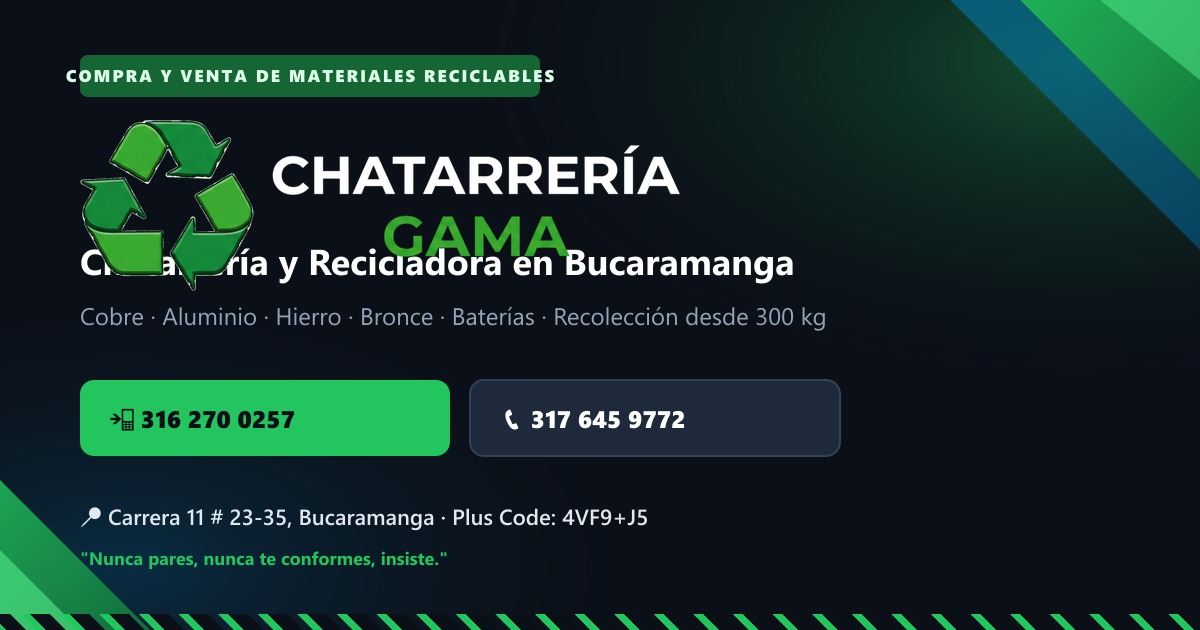
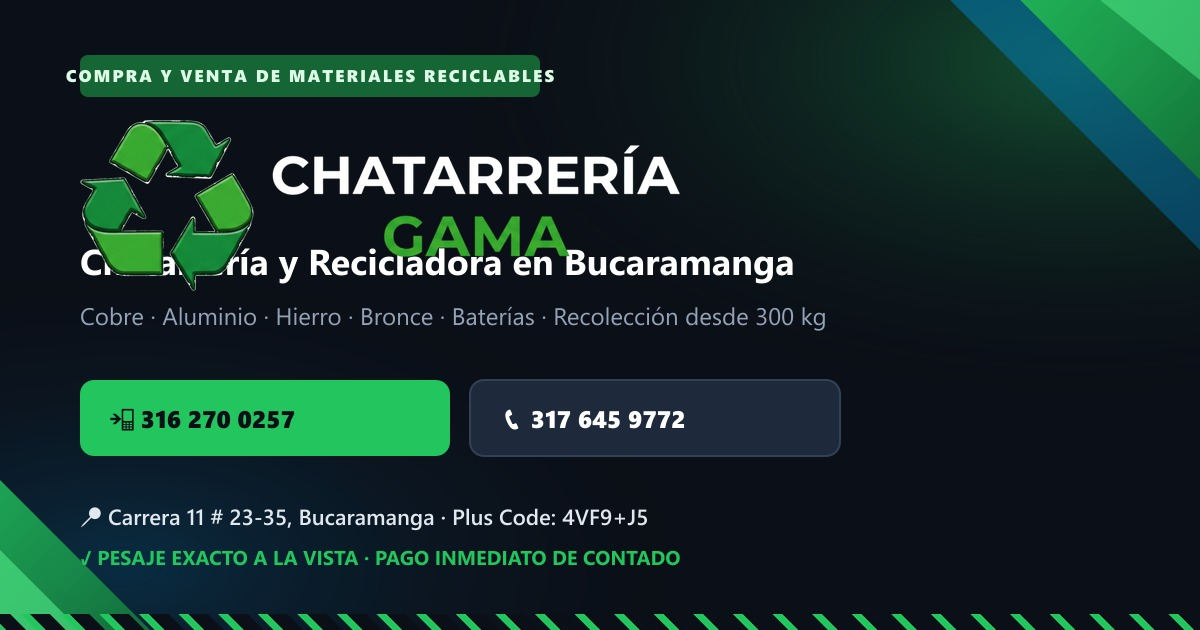
feat: optimizar textos comerciales, confianza (bascula/pago) y segmentacion de clientes

Changed region(s): [[0.0617, 0.8746, 0.5858, 0.9048]]

diff --git a/src/data/materials.ts b/src/data/materials.ts
@@ -1,16 +1,16 @@
 export interface Material {
   slug: string;
-  name: string; // nombre corto (tarjetas, schema)
+  name: string;
   h1: string;
-  symbol: string; // ficha estilo tabla periódica
+  symbol: string;
   number: string;
-  priority: 1 | 2 | 3; // 1 = destacado en portada
-  short: string; // texto de tarjeta
+  priority: 1 | 2 | 3;
+  short: string;
   metaTitle: string;
   metaDescription: string;
-  items: string[]; // variantes que se compran
+  items: string[];
   intro: string;
-  tips: string[]; // cómo cotizan mejor
+  tips: string[];
   faqs?: { q: string; a: string }[];
 }
 
@@ -22,15 +22,15 @@ export const MATERIALS: Material[] = [
     symbol: 'Cu',
     number: '29',
     priority: 1,
-    short: 'Cobre brillante, 1B y mixto. El metal que mejor se paga: llévalo limpio y separado.',
+    short: 'Tubería, cable pelado brillante, cable encauchetado y cobre mixto. Pesaje exacto y pago de contado.',
     metaTitle: 'Compra de Cobre en Bucaramanga | Gama Metales',
     metaDescription: 'Compra de cobre en Bucaramanga: cobre brillante, 1B y mixto. Cotiza por WhatsApp con tu peso y fotos y vende hoy en Gama Metales.',
-    items: ['Cobre brillante', 'Cobre 1B (primera)', 'Cobre mixto', 'Cable y alambre de cobre (consulta por WhatsApp)'],
-    intro: 'En Gama Metales compramos cobre en todas sus calidades. El precio depende del tipo y de la limpieza del material, y cambia cada día, por eso lo cotizamos por WhatsApp con el peso aproximado y una foto.',
+    items: ['Cobre brillante (cable pelado)', 'Cobre 1B (tubería limpia)', 'Cobre mixto', 'Cable encauchetado y alambre de bobinado'],
+    intro: 'Compramos cobre en todas sus presentaciones: tubería de fontanería, cable pelado brillante, cable con recubrimiento y cobre mixto. Pesamos frente a ti y liquidamos al instante de contado según el precio del día.',
     tips: [
-      'Separa el cobre brillante del mixto: mezclados se cotizan al precio más bajo.',
-      'Quita plásticos, soldaduras y partes de otros metales cuando sea posible.',
-      'Envía una foto clara y el peso aproximado para una cotización rápida.',
+      'Separa el cobre brillante del mixto o encauchetado: mezclados se pagan a la tarifa más baja.',
+      'Retira llaves, soldaduras y uniones de otros metales para que te rinda como cobre de primera.',
+      'Escríbenos por WhatsApp con una foto y el peso estimado para darte el valor exacto del kilo hoy.',
     ],
     faqs: [
       { q: '¿A cómo está el kilo de cobre hoy en Bucaramanga?', a: 'El precio cambia todos los días según el mercado y la calidad del cobre. Escríbenos por WhatsApp con el tipo y el peso y te damos el precio del día.' },
@@ -44,15 +44,15 @@ export const MATERIALS: Material[] = [
     symbol: 'Al',
     number: '13',
     priority: 1,
-    short: 'Perfil, ollas, potes, guaya, rines y más. Limpio paga mucho más que contaminado.',
+    short: 'Perfil de ventana, ollas, rines, culatas y guayas. Limpio paga mucho más que contaminado.',
     metaTitle: 'Compra de Aluminio en Bucaramanga | Gama Metales',
     metaDescription: 'Compra de aluminio en Bucaramanga: perfil, ollas, potes, guaya y rines. Mientras más limpio, mejor se cotiza. Pide el precio del día por WhatsApp.',
-    items: ['Aluminio perfil limpio', 'Aluminio grueso y blando', 'Ollas y potes de aluminio', 'Guaya de aluminio', 'Planchas de litografía', 'Rines de auto, camión y bicicleta', 'Cilindros de moto', 'Persiana y aluminio contaminado'],
-    intro: 'El aluminio es uno de los materiales que más se mueve en nuestra bodega. Compramos desde perfil limpio hasta aluminio revuelto o contaminado; el precio por kilo varía según el tipo y la limpieza.',
+    items: ['Perfil de ventanería limpio', 'Aluminio grueso y fundición', 'Ollas y utensilios de aluminio', 'Rines de auto, camión y moto', 'Guaya de aluminio', 'Planchas de litografía', 'Persiana y aluminio con tornillos'],
+    intro: 'Compramos todo tipo de aluminio: desde perfiles limpios de ventanas hasta rines, ollas y piezas de motor. Pagamos de contado según la calidad y el estado del material.',
     tips: [
-      'El perfil limpio (sin tornillos, caucho ni vidrio) se paga muy por encima del contaminado.',
-      'Separa ollas y potes del aluminio grueso.',
-      'Si son rines, indica si son de auto, camión o bicicleta.',
+      'El perfil de ventanería sin tornillos, caucho ni vidrio tiene un precio mucho más alto.',
+      'Separa las ollas y chatarra delgada del aluminio grueso o fundición.',
+      'Si tienes rines o culatas de motor, indícanos si vienen con rodamientos o partes de hierro.',
     ],
     faqs: [
       { q: '¿Compran aluminio revuelto o contaminado?', a: 'Sí, compramos todo tipo de aluminio. El aluminio limpio y separado se cotiza mejor que el revuelto o contaminado.' },
@@ -65,14 +65,14 @@ export const MATERIALS: Material[] = [
     symbol: 'Fe',
     number: '26',
     priority: 1,
-    short: 'Hierro, acero y chatarra ferrosa en grandes volúmenes, con recolección desde 300 kg.',
+    short: 'Varilla, vigas, rejas, lámina, chatarra ferrosa y maquinaria pesada. Recolección desde 300 kg.',
     metaTitle: 'Compra de Chatarra de Hierro y Acero en Bucaramanga',
     metaDescription: 'Compra de chatarra de hierro y acero en Bucaramanga. Recibimos grandes volúmenes y recogemos desde 300 kg. Cotiza por WhatsApp hoy mismo.',
-    items: ['Hierro gris (fundición)', 'Chatarra de hierro', 'Acero', 'Acero papelillo', 'Acero voluminoso', 'Viruta de acero'],
-    intro: 'La chatarra ferrosa es el material de mayor volumen. Si acumulas hierro o acero en tu casa, taller, obra o empresa, lo recibimos en bodega o lo recogemos desde 300 kg.',
+    items: ['Varilla de construcción y malla', 'Vigas, perfiles y rejas', 'Hierro gris de fundición', 'Láminas y retales de taller', 'Acero inoxidable', 'Viruta de torno y maquinaria en desuso'],
+    intro: 'Recibimos chatarra ferrosa en cualquier cantidad: varilla de obra, rejas, vigas, tubería, maquinaria pesada y lámina. Si tienes más de 300 kg, coordinamos camión y recolección directamente en tu sitio.',
     tips: [
-      'Para volúmenes grandes, pide recolección: ahorras flete y tiempo.',
-      'Indica si es hierro gris, acero o material voluminoso: se cotizan distinto.',
+      'Para cantidades grandes en obras o talleres, solicita recolección a domicilio: te ahorras el flete y la logística.',
+      'Separa el acero inoxidable del hierro común: el acero inoxidable se cotiza a un valor muy superior.',
     ],
     faqs: [
       { q: '¿Desde cuántos kilos hacen recolección de chatarra?', a: 'Hacemos recolección desde 300 kg. Escríbenos por WhatsApp con tu ubicación y el material para coordinar.' },
@@ -85,12 +85,15 @@ export const MATERIALS: Material[] = [
     symbol: 'Cu·Sn',
     number: '29·50',
     priority: 2,
-    short: 'Bronce, bronce pintado, radiadores de cobre, mixtos y de aluminio.',
+    short: 'Grifería, llaves, válvulas, piezas de torno y radiadores de cobre, mixtos o aluminio.',
     metaTitle: 'Compra de Bronce y Radiadores en Bucaramanga',
     metaDescription: 'Compramos bronce y radiadores de cobre, mixtos y de aluminio en Bucaramanga. Envía fotos y peso por WhatsApp y recibe tu cotización del día.',
-    items: ['Bronce', 'Bronce pintado', 'Bronce vainilla', 'Viruta de bronce', 'Radiador de cobre', 'Radiador mixto', 'Radiador de aluminio'],
-    intro: 'Compramos bronce en sus variantes y radiadores de distintos materiales. Cada tipo tiene un precio diferente, así que una foto del material acelera la cotización.',
-    tips: ['Indica si el radiador es de cobre, mixto o aluminio.', 'No mezcles bronce con otros metales.'],
+    items: ['Bronce de piezas mecánicas', 'Grifería, llaves y válvulas', 'Bronce vainilla', 'Viruta de bronce', 'Radiadores de cobre', 'Radiadores mixtos y de aluminio'],
+    intro: 'Compramos bronce de piezas mecánicas, grifería, válvulas y viruta, además de radiadores de cobre, mixtos y de aluminio. Pesaje exacto a la vista y liquidación inmediata.',
+    tips: [
+      'Retira mangueras plásticas y abrazaderas de hierro de los radiadores para recibir la mejor cotización.',
+      'No mezcles bronce con cobre: el cobre tiene un precio más alto y te conviene venderlo por separado.',
+    ],
   },
   {
     slug: 'baterias',
@@ -99,12 +102,15 @@ export const MATERIALS: Material[] = [
     symbol: 'Pb',
     number: '82',
     priority: 2,
-    short: 'Baterías de carro, camión, moto y estacionarias. Cotiza por tipo y cantidad.',
+    short: 'Baterías de auto, camión, moto y plantas eléctricas. Te pagamos según tamaño y referencia.',
     metaTitle: 'Compra de Baterías Usadas en Bucaramanga | Gama Metales',
     metaDescription: 'Compra de baterías usadas en Bucaramanga: de carro, camión, moto y estacionarias. Cotiza por WhatsApp según el tipo de batería y la cantidad.',
-    items: ['Baterías de carro (N40, N42, N48, N27)', 'Baterías 30H, 4D y 8D (camión y maquinaria)', 'Baterías de moto', 'Baterías estacionarias'],
-    intro: 'Compramos baterías usadas de todos los tamaños. El valor depende del tipo (referencia) y de la cantidad, por eso pedimos que nos escribas la referencia que aparece en la batería.',
-    tips: ['Envía la referencia (por ejemplo N40, 4D, 8D) y cuántas tienes.', 'Transpórtalas en posición vertical y sin abrirlas.'],
+    items: ['Baterías de auto (N40, N42, N48, N27)', 'Baterías pesadas de camión (30H, 4D, 8D)', 'Baterías de moto', 'Baterías estacionarias y de plantas eléctricas'],
+    intro: 'Compramos baterías de plomo-ácido fuera de uso: de autos, camiones (4D, 8D), motos, maquinaria pesada y bancos de baterías estacionarias. Te las pagamos de contado según tamaño y referencia.',
+    tips: [
+      'Escríbenos la referencia que aparece en la etiqueta (por ejemplo 4D, 8D, N40) para darte el precio de inmediato.',
+      'Mantén las baterías en posición vertical y sin derramar el líquido para transportarlas con seguridad.',
+    ],
   },
   {
     slug: 'plomo-y-antimonio',
@@ -113,12 +119,14 @@ export const MATERIALS: Material[] = [
     symbol: 'Pb',
     number: '82',
     priority: 3,
-    short: 'Plomo limpio, balancín y antimonio.',
+    short: 'Plomo limpio, tubería antigua de plomo, balancines de llanta y antimonio.',
     metaTitle: 'Compra de Plomo y Antimonio en Bucaramanga',
     metaDescription: 'Compra de plomo y antimonio en Bucaramanga: plomo limpio y balancín. Envía el peso aproximado por WhatsApp y te damos la cotización del día.',
-    items: ['Plomo limpio', 'Balancín', 'Antimonio'],
-    intro: 'Compramos plomo y antimonio. Cotizamos según el tipo y el peso, con el precio del día.',
-    tips: ['Indica si es plomo limpio o balancín.'],
+    items: ['Plomo limpio', 'Tubería antigua de plomo', 'Balancines y pesas de llanta', 'Antimonio'],
+    intro: 'Compramos plomo limpio, tubería antigua de plomo, balancines de llantas y antimonio. Cotizamos según el peso con la tasa actualizada del mercado.',
+    tips: [
+      'Indícanos si es plomo limpio en lingotes/bloques o si son balancines con grapas de hierro.',
+    ],
   },
   {
     slug: 'electrodomesticos',
@@ -127,12 +135,14 @@ export const MATERIALS: Material[] = [
     symbol: 'Cu·Al·Fe',
     number: '',
     priority: 2,
-    short: 'Electrodomésticos y equipos electrónicos en desuso. Consulta por recolección.',
+    short: 'Neveras, lavadoras, congeladores y calentadores viejos. Despeja espacio y recibe dinero hoy.',
     metaTitle: 'Compra de Neveras, Lavadoras y TV Usados en Bucaramanga',
     metaDescription: 'Compramos neveras, lavadoras y televisores usados en Bucaramanga. Cotiza por WhatsApp con una foto y consulta por recolección desde 300 kg.',
-    items: ['Neveras', 'Lavadoras', 'Televisores', 'Otros electrodomésticos y chatarra electrónica (consulta)'],
-    intro: 'Si tienes electrodomésticos en desuso, te los compramos. Escríbenos con una foto y la cantidad; si son varios, coordinamos la recolección.',
-    tips: ['Envía foto y cantidad.', 'Si completas 300 kg o más, podemos recogerlos.'],
+    items: ['Neveras y congeladores', 'Lavadoras y secadoras', 'Calentadores de agua y motores', 'Televisores y chatarra electrónica'],
+    intro: 'Compramos neveras, lavadoras, congeladores, calentadores y televisores en desuso. Si vas a remodelar o despejar tu espacio, te compramos tus aparatos viejos por kilo o unidad.',
+    tips: [
+      'Envíanos una foto por WhatsApp del electrodoméstico para cotizarte de inmediato.',
+      'Si completas 300 kg o tienes varios aparatos en tu casa o finca, podemos pasar a recogerlos.',
+    ],
   },
 ];
-

diff --git a/src/data/faqs.ts b/src/data/faqs.ts
@@ -5,28 +5,27 @@ export interface Faq {
 
 export const HOME_FAQS: Faq[] = [
   {
-    q: '¿Cuánto pagan por kilo de chatarra hoy?',
-    a: 'Los precios cambian a diario según el mercado y la calidad del material. Escríbenos por WhatsApp con el tipo de metal, el peso aproximado y una foto, y te damos el precio del día.',
+    q: '¿Cómo garantizan el peso exacto de mi chatarra?',
+    a: 'Contamos con báscula a la vista en nuestra bodega de la Carrera 11 # 23-35. Todo el material se pesa frente a ti de forma transparente para que tengas total seguridad en los kilos que nos entregas.',
   },
   {
-    q: '¿Qué metales compran en Bucaramanga?',
-    a: 'Compramos todo tipo de metales: cobre, bronce, aluminio, hierro, acero, plomo, antimonio, radiadores, rines, baterías y electrodomésticos como neveras, lavadoras y televisores.',
+    q: '¿Cómo y cuándo me pagan el material?',
+    a: 'El pago es de contado e inmediato en el mismo momento del pesaje: en efectivo o por transferencia electrónica al instante (Nequi, Daviplata o Bancolombia), sin demoras ni retenciones.',
+  },
+  {
+    q: '¿A cómo pagan el kilo hoy?',
+    a: 'Los precios de los metales se actualizan diariamente según el mercado. Escríbenos por WhatsApp con el tipo de material, el peso estimado y una foto, y te damos el precio exacto de hoy en minutos.',
   },
   {
     q: '¿Hacen recolección de chatarra a domicilio?',
-    a: 'Sí, hacemos recolección desde 300 kg en Bucaramanga y municipios cercanos. Escríbenos por WhatsApp para coordinar.',
+    a: 'Sí, realizamos recolección a partir de 300 kg en Bucaramanga, Floridablanca, Girón y Piedecuesta. Coordinamos la fecha y hora que te convenga y llevamos transporte para cargarlo.',
   },
   {
-    q: '¿Cuál es el horario de la chatarrería?',
-    a: 'Atendemos de lunes a viernes de 7:00 a. m. a 5:30 p. m. y los sábados de 7:00 a. m. a 1:30 p. m.',
+    q: '¿Dónde queda la bodega y qué horario tienen?',
+    a: 'Estamos ubicados en la Carrera 11 # 23-35, Bucaramanga (Santander). Atendemos de lunes a viernes de 7:00 a. m. a 5:30 p. m. y sábados de 7:00 a. m. a 1:30 p. m.',
   },
   {
-    q: '¿Dónde queda Gama Metales?',
-    a: 'Estamos en la Carrera 11 # 23-35, Bucaramanga, Santander. Plus code: 4VF9+J5.',
-  },
-  {
-    q: '¿Compran material a empresas y talleres?',
-    a: 'Sí. Atendemos a público en general y también a empresas, talleres e industrias que quieren vender chatarra y excedentes de metal acumulados.',
+    q: '¿Compran a talleres mecánicos, plomeros, electricistas y empresas?',
+    a: 'Sí. Atendemos tanto a particulares con cantidades pequeñas como a profesionales y empresas que generan excedentes continuos de cobre, bronce, aluminio, baterías y chatarra ferrosa.',
   },
 ];
-

diff --git a/src/data/site.ts b/src/data/site.ts
@@ -1,8 +1,8 @@
 export const SITE = {
   name: 'Gama Metales',
-  slogan: 'Nunca pares, nunca te conformes, insiste.',
+  slogan: 'Pesaje justo y pago inmediato de contado en Bucaramanga.',
   description:
-    'Chatarrería y recicladora de metales en Bucaramanga con más de 20 años de experiencia. Compramos cobre, bronce, aluminio, hierro, acero, plomo, baterías y electrodomésticos.',
+    'Chatarrería Gama Metales en Bucaramanga con más de 20 años de experiencia. Pesaje exacto a la vista, pago de contado inmediato y los mejores precios en cobre, aluminio, hierro y baterías.',
   lang: 'es-CO',
   locale: 'es_CO',
   city: 'Bucaramanga',
@@ -11,13 +11,13 @@ export const SITE = {
 
   address: {
     street: 'Carrera 11 # 23-35',
-    neighborhood: '', // TODO: barrio/sector exacto
-    postalCode: '', // TODO: opcional
+    neighborhood: '', // TODO: barrio/sector exacto si aplica
+    postalCode: '',
     plusCode: '4VF9+J5 Bucaramanga',
   },
   geo: { lat: 7.1241, lng: -73.132 },
-  mapsUrl: `https://www.google.com/maps/search/?api=1&query=${encodeURIComponent('4VF9+J5 Bucaramanga')}`,
-  gbpUrl: '', // TODO: enlace al perfil de Google Business cuando lo recuperes
+  mapsUrl: `https://www.google.com/maps/search/?api=1&query=${encodeURIComponent('Carrera 11 # 23-35 Bucaramanga')}`,
+  gbpUrl: '',
 
   phones: [
     { label: 'WhatsApp principal', display: '316 270 0257', e164: '+573162700257', wa: '573162700257' },
@@ -28,14 +28,14 @@ export const SITE = {
     { label: 'Lunes a viernes', display: '7:00 a. m. a 5:30 p. m.', days: ['Monday', 'Tuesday', 'Wednesday', 'Thursday', 'Friday'], opens: '07:00', closes: '17:30' },
     { label: 'Sábados', display: '7:00 a. m. a 1:30 p. m.', days: ['Saturday'], opens: '07:00', closes: '13:30' },
   ],
-  closedNote: 'Domingos y festivos cerrado.', // TODO: confirmar
+  closedNote: 'Domingos y festivos cerrado.',
 
   pickup: {
     minKg: 300,
-    zones: ['Bucaramanga', 'Floridablanca', 'Girón', 'Piedecuesta'], // TODO: confirmar cobertura
+    zones: ['Bucaramanga', 'Floridablanca', 'Girón', 'Piedecuesta'],
   },
 
-  sameAs: [] as string[], // TODO: Facebook, Instagram, GBP, cuando existan
+  sameAs: [] as string[],
   yearsOfExperience: '20',
 } as const;
 

diff --git a/src/data/seo.ts b/src/data/seo.ts
@@ -1,7 +1,7 @@
 export const PAGES = {
   home: {
     title: 'Chatarrería en Bucaramanga | Compra de Chatarra y Metales',
-    description: 'Chatarrería en Bucaramanga con más de 20 años. Compramos cobre, aluminio, hierro, bronce y baterías. Cotiza por WhatsApp y recibe el precio del día.',
+    description: 'Chatarrería en Bucaramanga con más de 20 años. Pesaje exacto, pago de contado inmediato y el mejor precio del día en cobre, aluminio, hierro y baterías.',
   },
   materiales: {
     title: 'Compra de Metales en Bucaramanga: Cobre, Aluminio y Hierro',
@@ -13,7 +13,7 @@ export const PAGES = {
   },
   empresas: {
     title: 'Venta de Chatarra para Empresas en Bucaramanga',
-    description: 'Empresas en Bucaramanga: vende la chatarra y los excedentes de metal acumulados en el año. Cotización por WhatsApp y recolección desde 300 kg.',
+    description: 'Compramos chatarra y excedentes de metal a empresas y talleres en Bucaramanga. Pesaje transparente, pago de contado y recolección desde 300 kg.',
   },
   contacto: {
     title: 'Chatarrería Gama Metales Bucaramanga | Dirección y Horarios',
